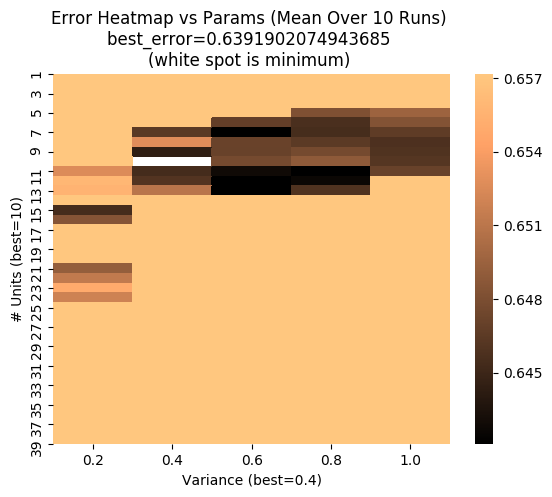
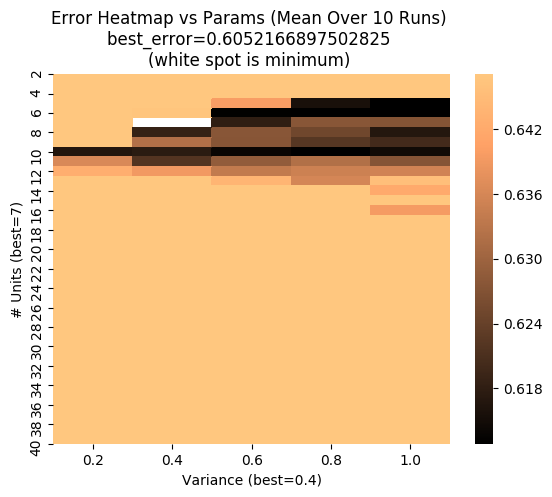
fixed issues with part3

diff --git a/lab2/_3_1.py b/lab2/_3_1.py
@@ -5,13 +5,15 @@ from sklearn.metrics import mean_squared_error, mean_absolute_error
 
 sign = lambda x: np.where(x >= 0, 1, -1)
 
-X = np.arange(0, 2 * np.pi, 0.1)
+X = np.arange(0, 2 * np.pi, 0.1)[:,np.newaxis]
 Y_SIN = np.sin(2 * X)
 Y_SQUARE = sign(np.sin(2 * X))
 
-X_VAL = np.arange(0.05, 2 * np.pi, 0.1)
+X_VAL = np.arange(0.05, 2 * np.pi, 0.1)[:,np.newaxis]
 Y_SIN_VAL = np.sin(2 * X_VAL)
 Y_SQUARE_VAL = sign(np.sin(2 * X_VAL))
+
+print (Y_SIN.shape)
 
 
 def repeat2D(A, rep):
@@ -20,14 +22,11 @@ def repeat2D(A, rep):
 
 class RBF_NET:
     def __init__(self, rbfs_mean, rbfs_variance, activation=lambda x: x):
-        self.rbfs_mean = rbfs_mean
+        self.rbfs_mean = rbfs_mean if rbfs_mean.ndim > 1 else rbfs_mean[:, np.newaxis]
         self.rbfs_variance = rbfs_variance
         self.activation = activation
 
     def phi(self, X):
-        # X_ = repeat2D(X, len(self.rbfs_mean))
-        # mean_ = repeat2D(self.rbfs_mean, len(X_)).T
-
         X = X if len(X.shape) == 2 else X.reshape(-1,1)
         Y = self.rbfs_mean if len(self.rbfs_mean.shape) == 2 else self.rbfs_mean.reshape(-1,1)
 
@@ -45,33 +44,35 @@ class RBF_NET:
         callback() if callback else None
         return 1
 
-    def train_delta_single(self, X_scalar, Y_scalar, eta=1):
-        phi_ = self.phi(X_scalar)
-        pred = self.activation(phi_ @ self.W)
-        e = (Y_scalar - pred)[0]
-        delW = (eta * e * phi_).flatten()
+    def train_delta_single(self, phi_X, Y_example, eta):
+        pred = self.activation(phi_X @ self.W)
+        e = (Y_example - pred)
+        delW = (eta * e @ phi_X).T
         self.W += delW
         return np.max(np.abs(delW))
 
-    def train_delta_batch(self, X, Y, max_epochs=100, eta=1, callback=None):
+    def train_delta_batch(self, X, Y, max_epochs=1000, eta=0.01, callback=None):
         """
         Return # epochs to convergence (when error < 0.01)
         """
         self.W = np.random.randn(*self.rbfs_mean.shape)
         
         old_e = 0
+
+        phi_X = self.phi(X)
         
-        for _ in range(1, max_epochs):
-            # print (_)
+        for epoch in range(1, max_epochs):
             maxDelW = 0
             for i in range(len(X)):
-                maxDelW = max(self.train_delta_single(X[i : i + 1], Y[i : i + 1], eta=eta), maxDelW)
+                Y_example = Y[i : i + 1]
+                phi_X_example = phi_X[i : i + 1]
+                maxDelW = max(self.train_delta_single(phi_X_example, Y_example, eta), maxDelW)
             new_e = self.mse(X,Y)
             if abs(old_e - new_e) < 10**-5:
                 break
             old_e = new_e
-
-        return _
+        
+        return epoch
 
     def predict(self, X):
         return self.activation(self.phi(X) @ self.W)
@@ -108,8 +109,35 @@ if __name__ == "__main__":
             print(max(thresholds), "&", e, "&", hidden_num, "\\\\")
             thresholds.remove(max(thresholds))
 
+        plt.plot(X, n.predict(X))
+        plt.show(block=False)
+        plt.title(hidden_num)
+        plt.pause(.1)
+        plt.clf()
+
+
     thresholds = set([0.1, 0.01, 0.001])
     print("Square")
+    print("Threshold & Error Achieved & Hidden \\\\")
+    for hidden_num in range(1, 40):
+        rbfs_mean = np.arange(0, 2 * np.pi, 2 * np.pi / hidden_num)
+        rbfs_variance = 0.3
+        n = RBF_NET(rbfs_mean, rbfs_variance)
+        n.train_batch(X, Y_SQUARE)
+        e = n.mae(X_VAL, Y_SQUARE_VAL)
+        if len(thresholds) and e < max(thresholds):
+            print(max(thresholds), "&", e, "&", hidden_num, "\\\\")
+            thresholds.remove(max(thresholds))
+    
+        plt.plot(X, n.predict(X))
+        plt.show(block=False)
+        plt.title(hidden_num)
+        plt.pause(.1)
+        plt.clf()
+
+
+    thresholds = set([0.1, 0.01, 0.001])
+    print("Square (With Sign Activation)")
     print("Threshold & Error Achieved & Hidden \\\\")
     for hidden_num in range(1, 40):
         rbfs_mean = np.arange(0, 2 * np.pi, 2 * np.pi / hidden_num)
@@ -121,9 +149,3 @@ if __name__ == "__main__":
             print(max(thresholds), "&", e, "&", hidden_num, "\\\\")
             thresholds.remove(max(thresholds))
             # break
-
-        # plt.plot(X, n.predict(X))
-        # plt.show(block=False)
-        # plt.title(hidden_num)
-        # plt.pause(.1)
-        # plt.clf()

diff --git a/lab2/_3_2.py b/lab2/_3_2.py
@@ -18,9 +18,9 @@ def findBestParams(
     apply_noise=True,
     randomize_rbfs=False,
     max_epochs=100,
-    hidden_range=np.arange(1, 41),
+    hidden_range=np.arange(2, 41),
     var_range=np.round(np.arange(0.2, 1.2, 0.2), 2),
-    eta=1,
+    eta=0.01,
 ):
 
     num_runs = 10
@@ -53,12 +53,19 @@ def findBestParams(
                             x, y, callback=None, max_epochs=max_epochs, eta=eta
                         )
                         cont = True
+
+                        # plt.plot(X, n.predict(X))
+                        # plt.show(block=False)
+                        # plt.title(hidden_num)
+                        # plt.pause(.1)
+                        # plt.clf()
+
                     except KeyboardInterrupt:
                         exit()
                     except np.linalg.LinAlgError:
                         pass
 
-                e = n.error(x_val, y_val)
+                e = n.mae(x_val, y_val)
 
                 errors[run][i][j] = np.inf if np.isnan(e) else e
                 num_epochs[run][i][j] = eps
@@ -100,7 +107,6 @@ if __name__ == "__main__":
     # dat = findBestParams(X, Y_SQUARE, X_VAL, Y_SQUARE_VAL, "train_batch")
     # plt.savefig("pictures/3_2_parameter_map_batch_square.png", bbox_inches='tight')
     # plt.clf()
-
 
     dat = findBestParams(X, Y_SIN, X_VAL, Y_SIN_VAL, "train_delta_batch")
     plt.savefig("pictures/3_2_parameter_map_delta_sin.png", bbox_inches="tight")
